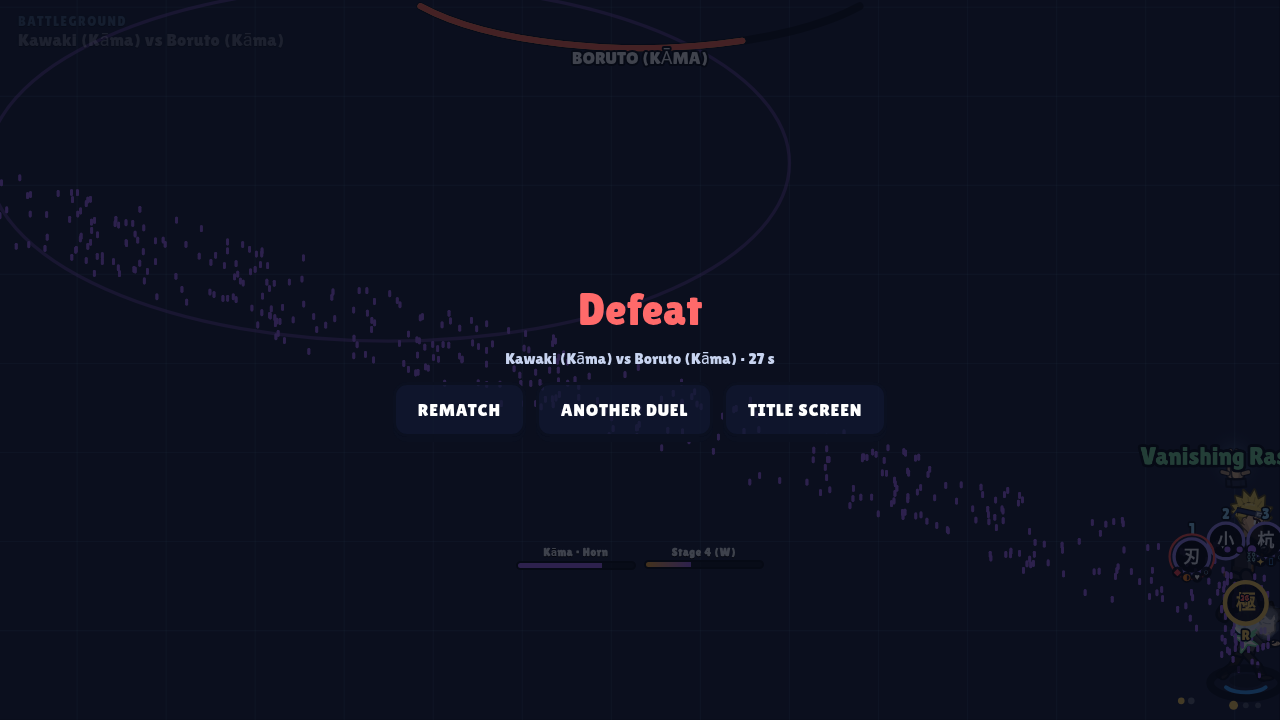
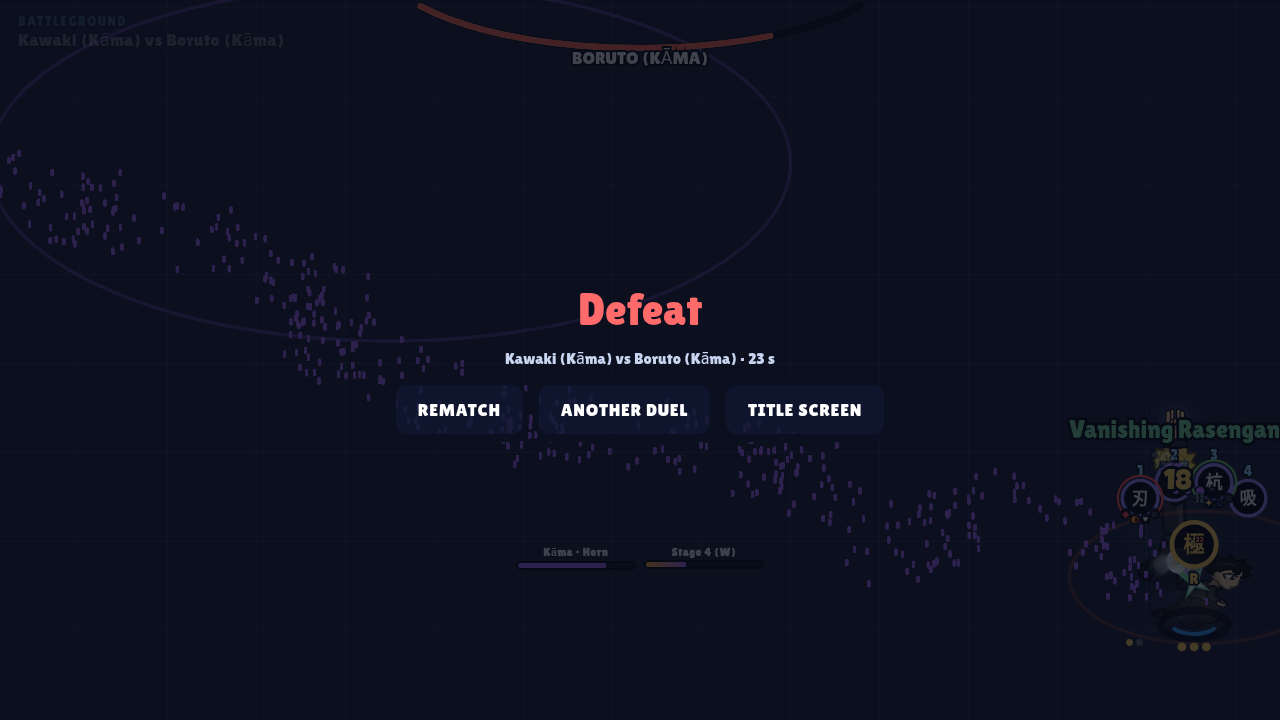
v0.10.38 Battleground: Boruto vs Kawaki mirror tuned

diff --git a/index.html b/index.html
@@ -104,7 +104,7 @@ button.b.p{background:var(--gold);color:var(--ink)}button.b.p2{background:var(--
 <script>
 'use strict';
 /* ============ Noyau : réglages, sauvegarde, entrées, audio ============ */
-const VERSION = '0.10.37';
+const VERSION = '0.10.38';
 const K10 = Math.sqrt(10); // v0.9.7 : échelle des cartes extérieures (surface ×10)
 const $ = (s) => document.querySelector(s);
 const TAU = Math.PI * 2, clamp = (v, a, b) => (v < a ? a : v > b ? b : v), lerp = (a, b, t) => a + (b - a) * t;
@@ -5566,9 +5566,9 @@ let FT10 = null, FB10 = null;
     pain: { n: 'Pain (Tendō)', look: { hs: 'spiky', hair: '#e8752a', top: '#1a1a26', bot: '#1a1a26', cloak: '#1a1a26', org: 1, skin: '#f0d8c0', eye: '#b08ad8' }, hp: 0.9, sk: ['shinra', 'bansho10', 'rods10', 'shuriken8'], ult: 'set_chibaku', mode: null, me: 1.2,
       ai: [['Shinra Tensei', '神', 'yang', 'zone', 24, 6], ['Tige noire', '杭', 'yin', 'proj', 15, 3.5], ['Bansho Ten’in', '引', 'yang', 'dash', 16, 6], ['Tige noire', '杭', 'yin', 'fan', 10, 4]], aiU: ['Chibaku Tensei', 'earth', 70] },
     boruto: { n: 'Boruto (Kāma)', look: { hs: 'boruto', hair: '#f0d060', top: '#2a2a3a', bot: '#2a2a3a', skin: '#f0c49c', karma: 1 }, hp: 0.8, sk: ['rasen', 'm8_jogan_0_1', 'm8_karma_0_0', 'bunshin'], ult: 'uzuhiko', mode: ['karma', 2],
-      ai: [['Rasengan', '螺', 'wind', 'dash', 24, 4], ['Rasengan invisible', '螺', 'wind', 'proj', 26, 5], ['Kage Bunshin', '影', 'yang', 'fan', 9, 5], ['Coup de Kāma', '撃', 'yin', 'dash', 22, 4]], aiU: ['Rasengan Uzuhiko', 'wind', 65] },
+      ai: [['Rasengan', '螺', 'wind', 'dash', 20, 4], ['Rasengan invisible', '螺', 'wind', 'proj', 22, 5], ['Kage Bunshin', '影', 'yang', 'fan', 9, 5], ['Coup de Kāma', '撃', 'yin', 'dash', 22, 4]], aiU: ['Rasengan Uzuhiko', 'wind', 65] },
     kawaki: { n: 'Kawaki (Kāma)', look: { hs: 'kawaki', hair: '#1a1a22', top: '#3a3a44', bot: '#2a2a30', skin: '#e8c8a8', karma: 1 }, hp: 0.95, sk: ['kawarm10', 'm8_karma_1_1', 'rods10', 'm8_karma_0_0'], ult: 'm8u_karma_2', mode: ['karma', 3], me: 1.1,
-      ai: [['Tige noire', '杭', 'yin', 'proj', 20, 3], ['Sukunahikona', '小', 'yin', 'beam', 24, 6], ['Coup de Kāma', '撃', 'yin', 'dash', 22, 4], ['Tiges en éventail', '杭', 'yin', 'fan', 10, 4]], aiU: ['Daikokuten', 'yin', 70] } };
+      ai: [['Tige noire', '杭', 'yin', 'proj', 18, 4], ['Sukunahikona', '小', 'yin', 'beam', 20, 6], ['Coup de Kāma', '撃', 'yin', 'dash', 22, 4], ['Tiges en éventail', '杭', 'yin', 'fan', 9, 5]], aiU: ['Daikokuten', 'yin', 70] } };
   const MU = [['sasuke', 'itachi', 'Les frères Uchiha'], ['naruto', 'sasuke', 'Vallée de la Fin'], ['naruto_s', 'pain', 'Invasion de Pain'], ['boruto', 'kawaki', 'Réceptacles du Kāma']];
   // techniques canon ajoutées pour les kits joueur : Banshō Ten'in (Pain), Tiges de chakra (Pain/Kawaki), Bras-lame du Kāma (Kawaki)
   Object.assign(SK, { bansho10: { n: 'Bansho Ten’in', el: 'yang', k: '引', cd: 6, ch: 18, sign: 'tora' }, rods10: { n: 'Tiges de chakra', el: 'yin', k: '杭', cd: 3.5, ch: 14, sign: 'mi' }, kawarm10: { n: 'Bras-lame du Kāma', el: 'yin', k: '刃', cd: 2.5, ch: 16, sign: 'ne' } });

diff --git a/src/8zv_bg10.js b/src/8zv_bg10.js
@@ -14,9 +14,9 @@
     pain: { n: 'Pain (Tendō)', look: { hs: 'spiky', hair: '#e8752a', top: '#1a1a26', bot: '#1a1a26', cloak: '#1a1a26', org: 1, skin: '#f0d8c0', eye: '#b08ad8' }, hp: 0.9, sk: ['shinra', 'bansho10', 'rods10', 'shuriken8'], ult: 'set_chibaku', mode: null, me: 1.2,
       ai: [['Shinra Tensei', '神', 'yang', 'zone', 24, 6], ['Tige noire', '杭', 'yin', 'proj', 15, 3.5], ['Bansho Ten’in', '引', 'yang', 'dash', 16, 6], ['Tige noire', '杭', 'yin', 'fan', 10, 4]], aiU: ['Chibaku Tensei', 'earth', 70] },
     boruto: { n: 'Boruto (Kāma)', look: { hs: 'boruto', hair: '#f0d060', top: '#2a2a3a', bot: '#2a2a3a', skin: '#f0c49c', karma: 1 }, hp: 0.8, sk: ['rasen', 'm8_jogan_0_1', 'm8_karma_0_0', 'bunshin'], ult: 'uzuhiko', mode: ['karma', 2],
-      ai: [['Rasengan', '螺', 'wind', 'dash', 24, 4], ['Rasengan invisible', '螺', 'wind', 'proj', 26, 5], ['Kage Bunshin', '影', 'yang', 'fan', 9, 5], ['Coup de Kāma', '撃', 'yin', 'dash', 22, 4]], aiU: ['Rasengan Uzuhiko', 'wind', 65] },
+      ai: [['Rasengan', '螺', 'wind', 'dash', 20, 4], ['Rasengan invisible', '螺', 'wind', 'proj', 22, 5], ['Kage Bunshin', '影', 'yang', 'fan', 9, 5], ['Coup de Kāma', '撃', 'yin', 'dash', 22, 4]], aiU: ['Rasengan Uzuhiko', 'wind', 65] },
     kawaki: { n: 'Kawaki (Kāma)', look: { hs: 'kawaki', hair: '#1a1a22', top: '#3a3a44', bot: '#2a2a30', skin: '#e8c8a8', karma: 1 }, hp: 0.95, sk: ['kawarm10', 'm8_karma_1_1', 'rods10', 'm8_karma_0_0'], ult: 'm8u_karma_2', mode: ['karma', 3], me: 1.1,
-      ai: [['Tige noire', '杭', 'yin', 'proj', 20, 3], ['Sukunahikona', '小', 'yin', 'beam', 24, 6], ['Coup de Kāma', '撃', 'yin', 'dash', 22, 4], ['Tiges en éventail', '杭', 'yin', 'fan', 10, 4]], aiU: ['Daikokuten', 'yin', 70] } };
+      ai: [['Tige noire', '杭', 'yin', 'proj', 18, 4], ['Sukunahikona', '小', 'yin', 'beam', 20, 6], ['Coup de Kāma', '撃', 'yin', 'dash', 22, 4], ['Tiges en éventail', '杭', 'yin', 'fan', 9, 5]], aiU: ['Daikokuten', 'yin', 70] } };
   const MU = [['sasuke', 'itachi', 'Les frères Uchiha'], ['naruto', 'sasuke', 'Vallée de la Fin'], ['naruto_s', 'pain', 'Invasion de Pain'], ['boruto', 'kawaki', 'Réceptacles du Kāma']];
   // techniques canon ajoutées pour les kits joueur : Banshō Ten'in (Pain), Tiges de chakra (Pain/Kawaki), Bras-lame du Kāma (Kawaki)
   Object.assign(SK, { bansho10: { n: 'Bansho Ten’in', el: 'yang', k: '引', cd: 6, ch: 18, sign: 'tora' }, rods10: { n: 'Tiges de chakra', el: 'yin', k: '杭', cd: 3.5, ch: 14, sign: 'mi' }, kawarm10: { n: 'Bras-lame du Kāma', el: 'yin', k: '刃', cd: 2.5, ch: 16, sign: 'ne' } });

diff --git a/src/10_core.js b/src/10_core.js
@@ -1,6 +1,6 @@
 'use strict';
 /* ============ Noyau : réglages, sauvegarde, entrées, audio ============ */
-const VERSION = '0.10.37';
+const VERSION = '0.10.38';
 const K10 = Math.sqrt(10); // v0.9.7 : échelle des cartes extérieures (surface ×10)
 const $ = (s) => document.querySelector(s);
 const TAU = Math.PI * 2, clamp = (v, a, b) => (v < a ? a : v > b ? b : v), lerp = (a, b, t) => a + (b - a) * t;

diff --git a/PATCH_NOTES.md b/PATCH_NOTES.md
@@ -1,3 +1,7 @@
+## v0.10.38 — Battleground: Boruto vs Kawaki mirror tuned
+- Kāma Vessels duel retuned: Kawaki's rods fire slower (cooldown 4 s), Sukunahikona and both Rasengans hit a little softer.
+- Both sides now reliably reward good play (8/8 wins in tests) while button-mashing still loses.
+
 ## v0.10.37 — Shinobi life: time-of-day NPC dialogue, Ichiraku, home, training, shops, NPC routines
 - NPCs speak short, time-of-day lines (morning, day, evening, night) in English by default.
 - Ichiraku: eat a bowl (30 ryō) for full HP and chakra.
